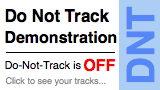
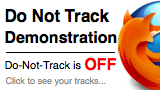
new stylesheet (mozilla official)

Changed region(s): [[0.5, 0.0, 1.0, 1.0]]

diff --git a/styles.css b/styles.css
@@ -1,59 +1,54 @@
-body {
-font-family: sans-serif;
+/* DNT demo page */
+
+#main-feature {
+  min-height: 200px;
+  background: url(http://mozcom-cdn.mozilla.net/img/covehead/divider-main.jpg) 50% 100% no-repeat;
 }
 
-body.main {
-background:#444; 
-color:#ccf;
+#sidebar {
+  float: right;
+  display: inline;
+  margin-right: 25px;
+  width: 255px;
+  padding-left: 10px;
+  margin-top: 20px;
 }
 
-.main h1 {
-  font-size: 44px;
-  font-style: italic;
-  font-weight: bold;
-  margin-bottom:10px;
-
+#sidebar h3 {
+  margin: 0;
 }
 
-div.innercontent {
-background:#fff;
-color:#000;
-padding:5px;
-border:1px solid black;
+#sidebar .sidebar-box {
+  margin: 25px 0;
+  -webkit-border-radius: 10px;
+  -moz-border-radius: 10px;
+  border-radius: 10px;
+  background: #CCE2F3;
+  padding: 20px 20px 15px;
+}
+#sidebar .sidebar-box h3 {
+  line-height: 0.8;
 }
 
-div.sidebar {
-background-color:#ccc;
-border: 1px solid #aaa;
-padding:5px;
-margin:5px;
-text-align:center;
-float:right;
-display:block;
-width:250px;
-}
-
-.sidebar textarea {
-  font-size:10px;
-}
-.sidebar p {
-  text-align: left;
-  font-size:smaller;
-}
-.sidebar h1 {
-  font-size:Large;
+#sidebar .sidebar-box p {
+  font-size: 13px;
+  margin: 5px 0;
 }
 
 
-.roundedcorners {
--moz-border-radius: 10px;
--webkit-border-radius: 10px;
--khtml-border-radius: 10px;
-border-radius: 10px;
+#sidebar textarea {
+  font-size:8px;
+  padding:0;
+  width:100%;
 }
 
-.main iframe#resultslist {
-  width:500px;
-  height:200px;
-  padding:5px;
+#sidebar li {
+  padding: 2px 2px 2px 2px;
+  margin-bottom:5px;
+  display:block;
+}
+
+
+div iframe#resultslist {
+  width:100%;
 }

diff --git a/index.php b/index.php
@@ -17,29 +17,68 @@ if (!$dnt and $dntval != 1 and !isset($cky)) {
 
 <html>
 <head>
-<title>Do-Not-Track Example Application</title>
-<link rel="stylesheet" href="styles.css" />
-</head>
-<body class="main">
-<h1>Do-Not-Track Example Application</h1>
-<div class="innercontent roundedcorners">
-<div class="sidebar">
+<title>Mozilla: Do-Not-Track Example Application</title>
+<link rel="stylesheet" href="styles.css">
+<link href="http://mozcom-cdn.mozilla.net/includes/min/min.css?g=css" rel="stylesheet">
 
+<style>
+    /* MetaWebPro font family licensed from fontshop.com. WOFF-FTW! */
+    @font-face {
+        font-family: 'MetaBlack';
+        src: url('http://mozcom-cdn.mozilla.net/img/fonts/MetaWebPro-Black.eot');
+        src: local('☺'), url('http://mozcom-cdn.mozilla.net/img/fonts/MetaWebPro-Black.woff') format('woff');
+        font-weight: bold;
+    }
+</style>
+
+</head>
+<body class="">
+<div id="wrapper">
+<div id="doc">
+
+  <div id="header">
+     <div>
+        <h1><a href="http://www.mozilla.com/" title="Back to home page">MozillaBLAH</a></h1>
+        <a href="http://www.mozilla.org/" class="mozilla">visit <span>mozilla</span></a>
+     </div>
+  </div>
+<!-- start breadcrumbs #breadcrumbs -->
+<p id="breadcrumbs"><a href="http://www.mozilla.com/" class="home">Home</a> <b>&#187;</b> 
+<span>DNT Example</span>
+
+</p>
+<!-- end breadcrumbs #breadcrumbs -->
+
+
+<div id='sidebar'>
+<div style="text-align:center;margin-bottom:50px;">
 <a href="http://<?=$_SERVER['SERVER_NAME']?>">
 <img style="border:1px solid blue;"
      src="http://<?=$_SERVER['SERVER_NAME']?>/track.php"
      alt="Do-Not-Track demo"
      title="This image may be tracking you.  Click for more info and to opt out."/>
 </a>
-<br/>
+</div>
 
-<h1>How to Opt Out</h1>
-<p>If you have a browser that supports the <a href="http://donottrack.us">DNT header</a>, you can enable it.  More information on how to enable it in Firefox <a href="http://blog.sidstamm.com/2011/01/try-out-do-not-track-http-header.html">is available here</a>.  If you'd prefer to opt-out from this site's tracking using a cookie-based method, or aren't using Firefox 4, <a href="./optout.php">click here to get the opt-out cookie</a>.
+<div class='sidebar-box'> 
+<h3>Why we made this <span>Example</span></h3>
+<p>We don't usually track people!  This demo is put together to show how a simple tracking application can be created and how it can <em>very easily</em> honor the new DNT header.</p>
+</div>
 
-<h1>Join the Experiment!</h1>
-<p>To participate in the example, embed a graphic on your own web page and watch as your visitors get tracked!  Copy and paste this code into your page:</p>
+<div class='sidebar-box'> 
+<h3>How to <span>Opt Out</span></h3>
+<p>This site will stop tracking you if you do either of the following:
+<ul>
+<li><a href="http://blog.sidstamm.com/2011/01/try-out-do-not-track-http-header.html">Enable the DNT header in Firefox</a>.
+<li><a href="./optout.php">Set an opt-out cookie</a>.
+</ul>
+</div>
 
-<textarea id="samplecode" rows=7 cols=35>
+<div class='sidebar-box'> 
+<h3>How to<span>Get Involved</span></h3>
+<p>If you'd like your site to be part of this demo, put this code on your own web page to tell us when people visit your site:</p>
+
+<textarea id="samplecode" rows=8 readonly>
 <a href="http://<?=$_SERVER['SERVER_NAME']?>">
 <img style="border:1px solid blue;"
      src="http://<?=$_SERVER['SERVER_NAME']?>/track.php"
@@ -47,43 +86,73 @@ if (!$dnt and $dntval != 1 and !isset($cky)) {
      title="This image may be tracking you.  Click for more info and to opt out."/>
 </a>
 </textarea>
-
 </div>
-<p>As an example, this application shows how you can be tracked around the web.  You'll see images like the one to the right on a variety of sites across the web.
-Every time you see them, they are phoning home to say what page showed them to you.  This is how various web services track where you visit on the web and then do things like customize the content they show you.
 
-  If you are being tracked, you can see below the list of sites where we've seen you in the past. While we don't know who you are, we've assigned you a random number (using cookies) and you send our servers that number when you load the image -- no matter which site you're on when you load this image.
+</div><!-- end sidebar -->
 
-If you'd like to avoid the tracking, simply turn on the "Do Not Track" feature in your Firefox 4 pre-release, or <a href="optout.php">click here</a> to opt out by setting an "opt out" cookie.</p>
+<div id="main-feature">
+<h2><span>Do Not Track</span> Example Application</h2>
+</div>
 
-<h3>WHERE HAVE YOU BEEN?</h3>
+<div id="main-content">
+<p>Many companies track where you go as you browse from site to site.  Often this is done by placing ads on a wide variety of sites: if my advertisement is on a thousand sites, then I can figure out which of those thousand sites you've been to.</p>
+
+<p>Lots of people don't like this.  In Firefox 4, we've added a feature called the "DNT Header" that lets you tell these "trackers" that you don't like it.  We created this demonstration since we don't do this type of tracking at Mozilla.</p>
+
+<h3>What's This Demo Doing?</span></h3>
+<p>This application shows how you can be tracked around the web.  You'll see images like the one on the top right of this site on a variety of other sites across the web too.  Every time you see them, your browser loads them from our server.  In the process, we're told what pages were showing them to you.  This is how various web services track where you visit on the web and then do things like customize the content they show you.</p>
+
+<p>If you are being tracked, this page will show you the sites we've seen you visit in the past. While we don't know <em>who</em> you are, we've given your browser a random number (using cookies) and you send us that number when you load the image.</p>
+
+<h3>Where Have You Been? </h3>
  
 <? if($dnt and $dntval == 1) { ?>
 
-<p>You've enabled the "DNT" header in your browser, so we haven't watched where you go.  
-If you want to see this site in action, you need to turn it off and then visit some of the <a href="siteslist.php">sites</a> that have our tracking image on them.</p>
+<p>You've enabled the do-not-track ("DNT") header in your browser, so we aren't tracking you!
+If you want to see this site in action, you need to let us track you buy turning the feature off and then visit some of the sites that have our tracking image on them.</p>
 
 <? } elseif(!isset($cky)) { ?>
 
 <p>You've not enabled the "DNT" header in your browser, but you've disabled the cookie feature we use to track people.  This is a more effective anti-tracking technique than employing the do-not-track header, but it can make it difficult to use the web in other ways.
-If you want to see this site in action, you need to turn it off and then visit some of the <a href="siteslist.php">sites</a> that have our tracking image on them.
+If you want to see this site in action, you need to turn it off and then visit some of the sites that have our tracking image on them.
 
 <? } elseif($cky == "optout") { ?>
 
-<p>You've chosen to opt-out of our tracking using the opt-out cookie method.  If you'd like to play with the demonstration, please clear the cookies set for "<?=$_SERVER['SERVER_NAME']?>" and then visit some of the <a href="siteslist.php">sites</a> that have our tracking image on them.
+<p>You browser has opt-out cookies!  This means we're not tracking you.  If you'd like to play with the demonstration, please clear the cookies set for this site ("<?=$_SERVER['SERVER_NAME']?>") and then visit some of the sites that have our tracking image on them.
 
 <? } else { ?>
 
-<p>Because you haven't enabled the do-not-track ("DNT") header in your browser, and we were able to set a cookie in your browser, we know a little bit about your browsing history.  Here's a list of sites that we think you've visited, including when:</p>
+<p>Because you haven't enabled the do-not-track ("DNT") header in your browser, and we were able to set a cookie in your browser, we know a little bit about your browsing history.</p>
 
+<p>If you'd like us to stop tracking you, simply turn on the "Do Not Track" feature in Firefox 4, or <a href="optout.php">click here</a> to opt out by setting an "opt out" cookie.</p>
+
+<p>Here's a list of sites that we think you've visited, and when we saw you there:</p>
+
+<div style="margin:0;padding:0;width:70%">
 <iframe id="resultslist" src="./results.php"></iframe>
+</div>
 
 <? } ?>
 
-<h3>PRIVACY NOTICE</h3>
-<p>This web site, <tt><?=$_SERVER['SERVER_NAME']?></tt> tracks you across other web sites as you browse.  The sites we know about are only the sites that have chosen to participate in the study.  We do not know who you are, only a small sample of sites you have been to.  This data is not shared with anyone and is for illustrative purposes only.  The data collected is only retained for seven days.</p>
+<h3>Privacy Notice</h3>
+<p>This web site, <tt><?=$_SERVER['SERVER_NAME']?></tt> tracks you across other web sites as you browse.  The sites we know about are only the sites that have chosen to participate in the study.  We do not know who you are, only a small sample of sites you have been to.  We promise not to share information about your browsing habits with anyone else without your permission.  In fact, we really don't want the data, so we'll delete any tracking data after seven days.</p>
 
-</div>
+</div><!-- end main-content -->
+
+</div><!-- end doc -->
+</div><!-- end wrapper -->
+
+        <div id="footer">
+        <div id="footer-contents" role="contentinfo">
+
+                <div id="copyright">
+                        <p>Except where otherwise <a href="http://www.mozilla.com/en-US/about/legal.html#site">noted</a>, content on this site is licensed under the <br /><a href="http://creativecommons.org/licenses/by-sa/3.0/">Creative Commons Attribution Share-Alike License v3.0</a> or any later version.</p>
+
+                </div>
+
+        </div>
+        </div>
+
 
 </body>
 </html>

diff --git a/optout.php b/optout.php
@@ -23,6 +23,7 @@ setcookie($cfg['cookiename'], 'optout', time()+2592000);
 <head>
 <title>Do-Not-Track Example Application</title>
 <link rel="stylesheet" href="styles.css" />
+<link href="http://mozcom-cdn.mozilla.net/includes/min/min.css?g=css" rel="stylesheet">
 <meta http-equiv="REFRESH" content="7; URL=http://<?=$_SERVER['SERVER_NAME']?>/"></meta>
 </head>
 <body>
